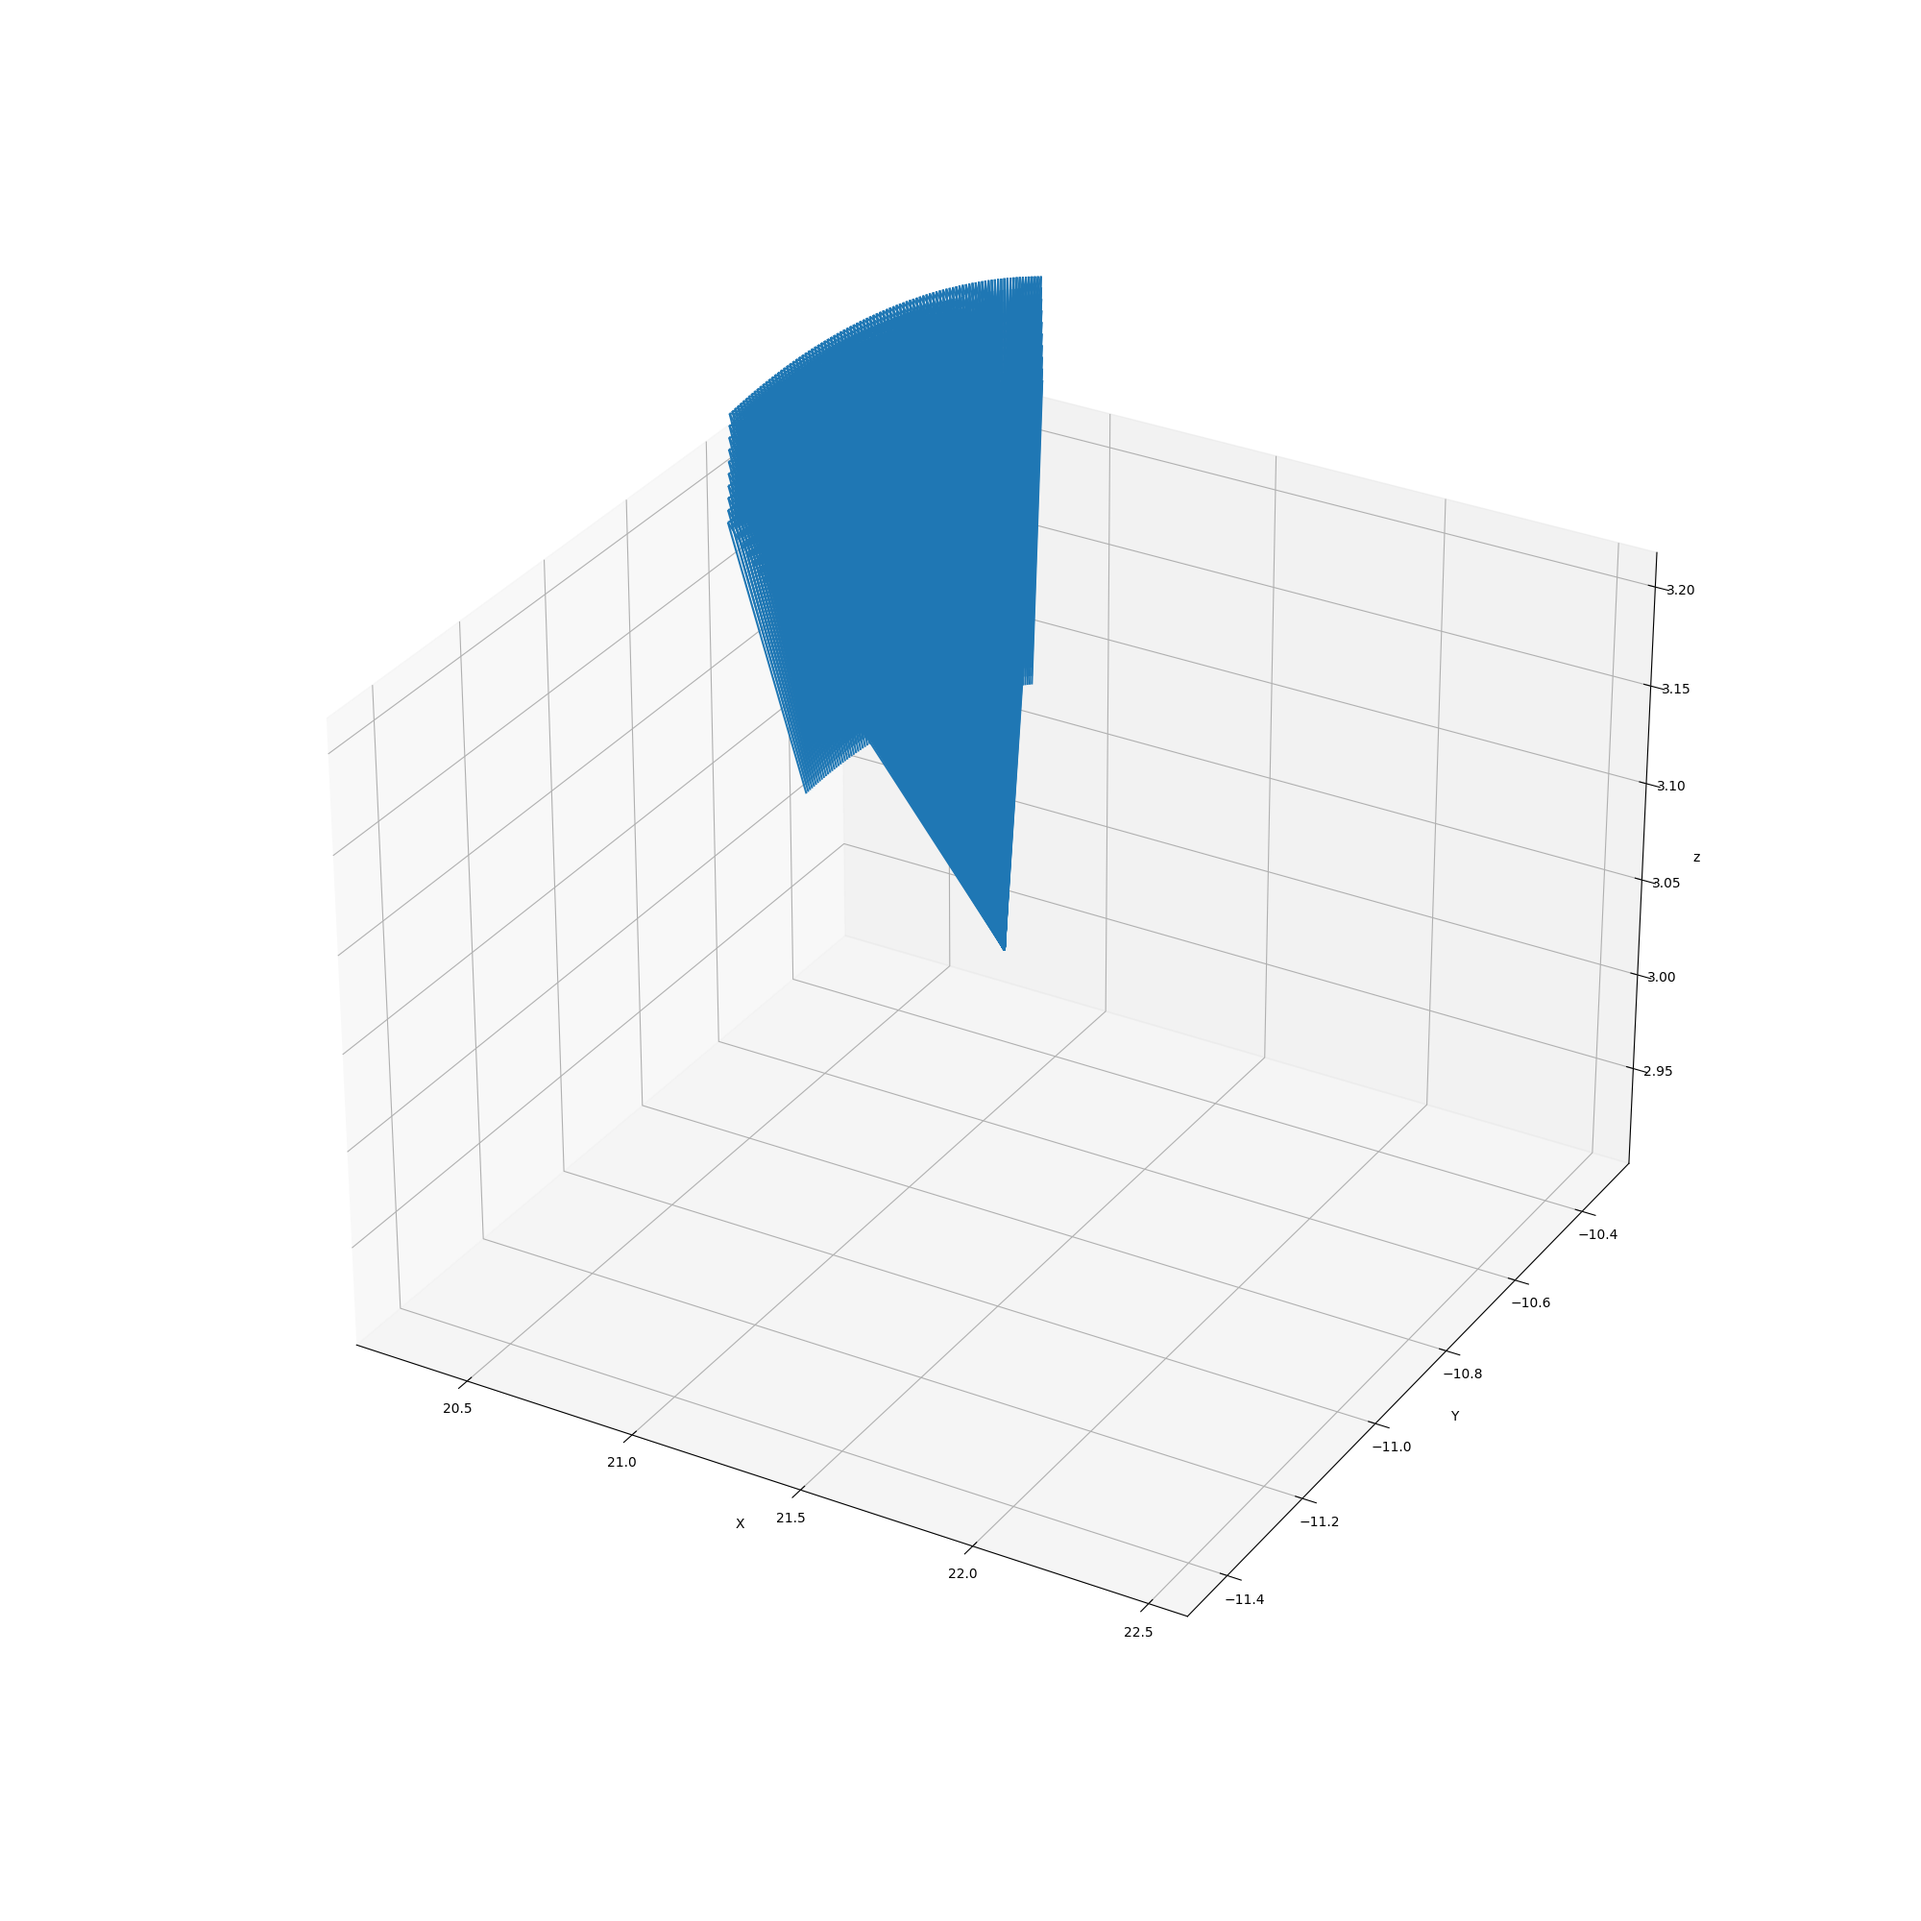
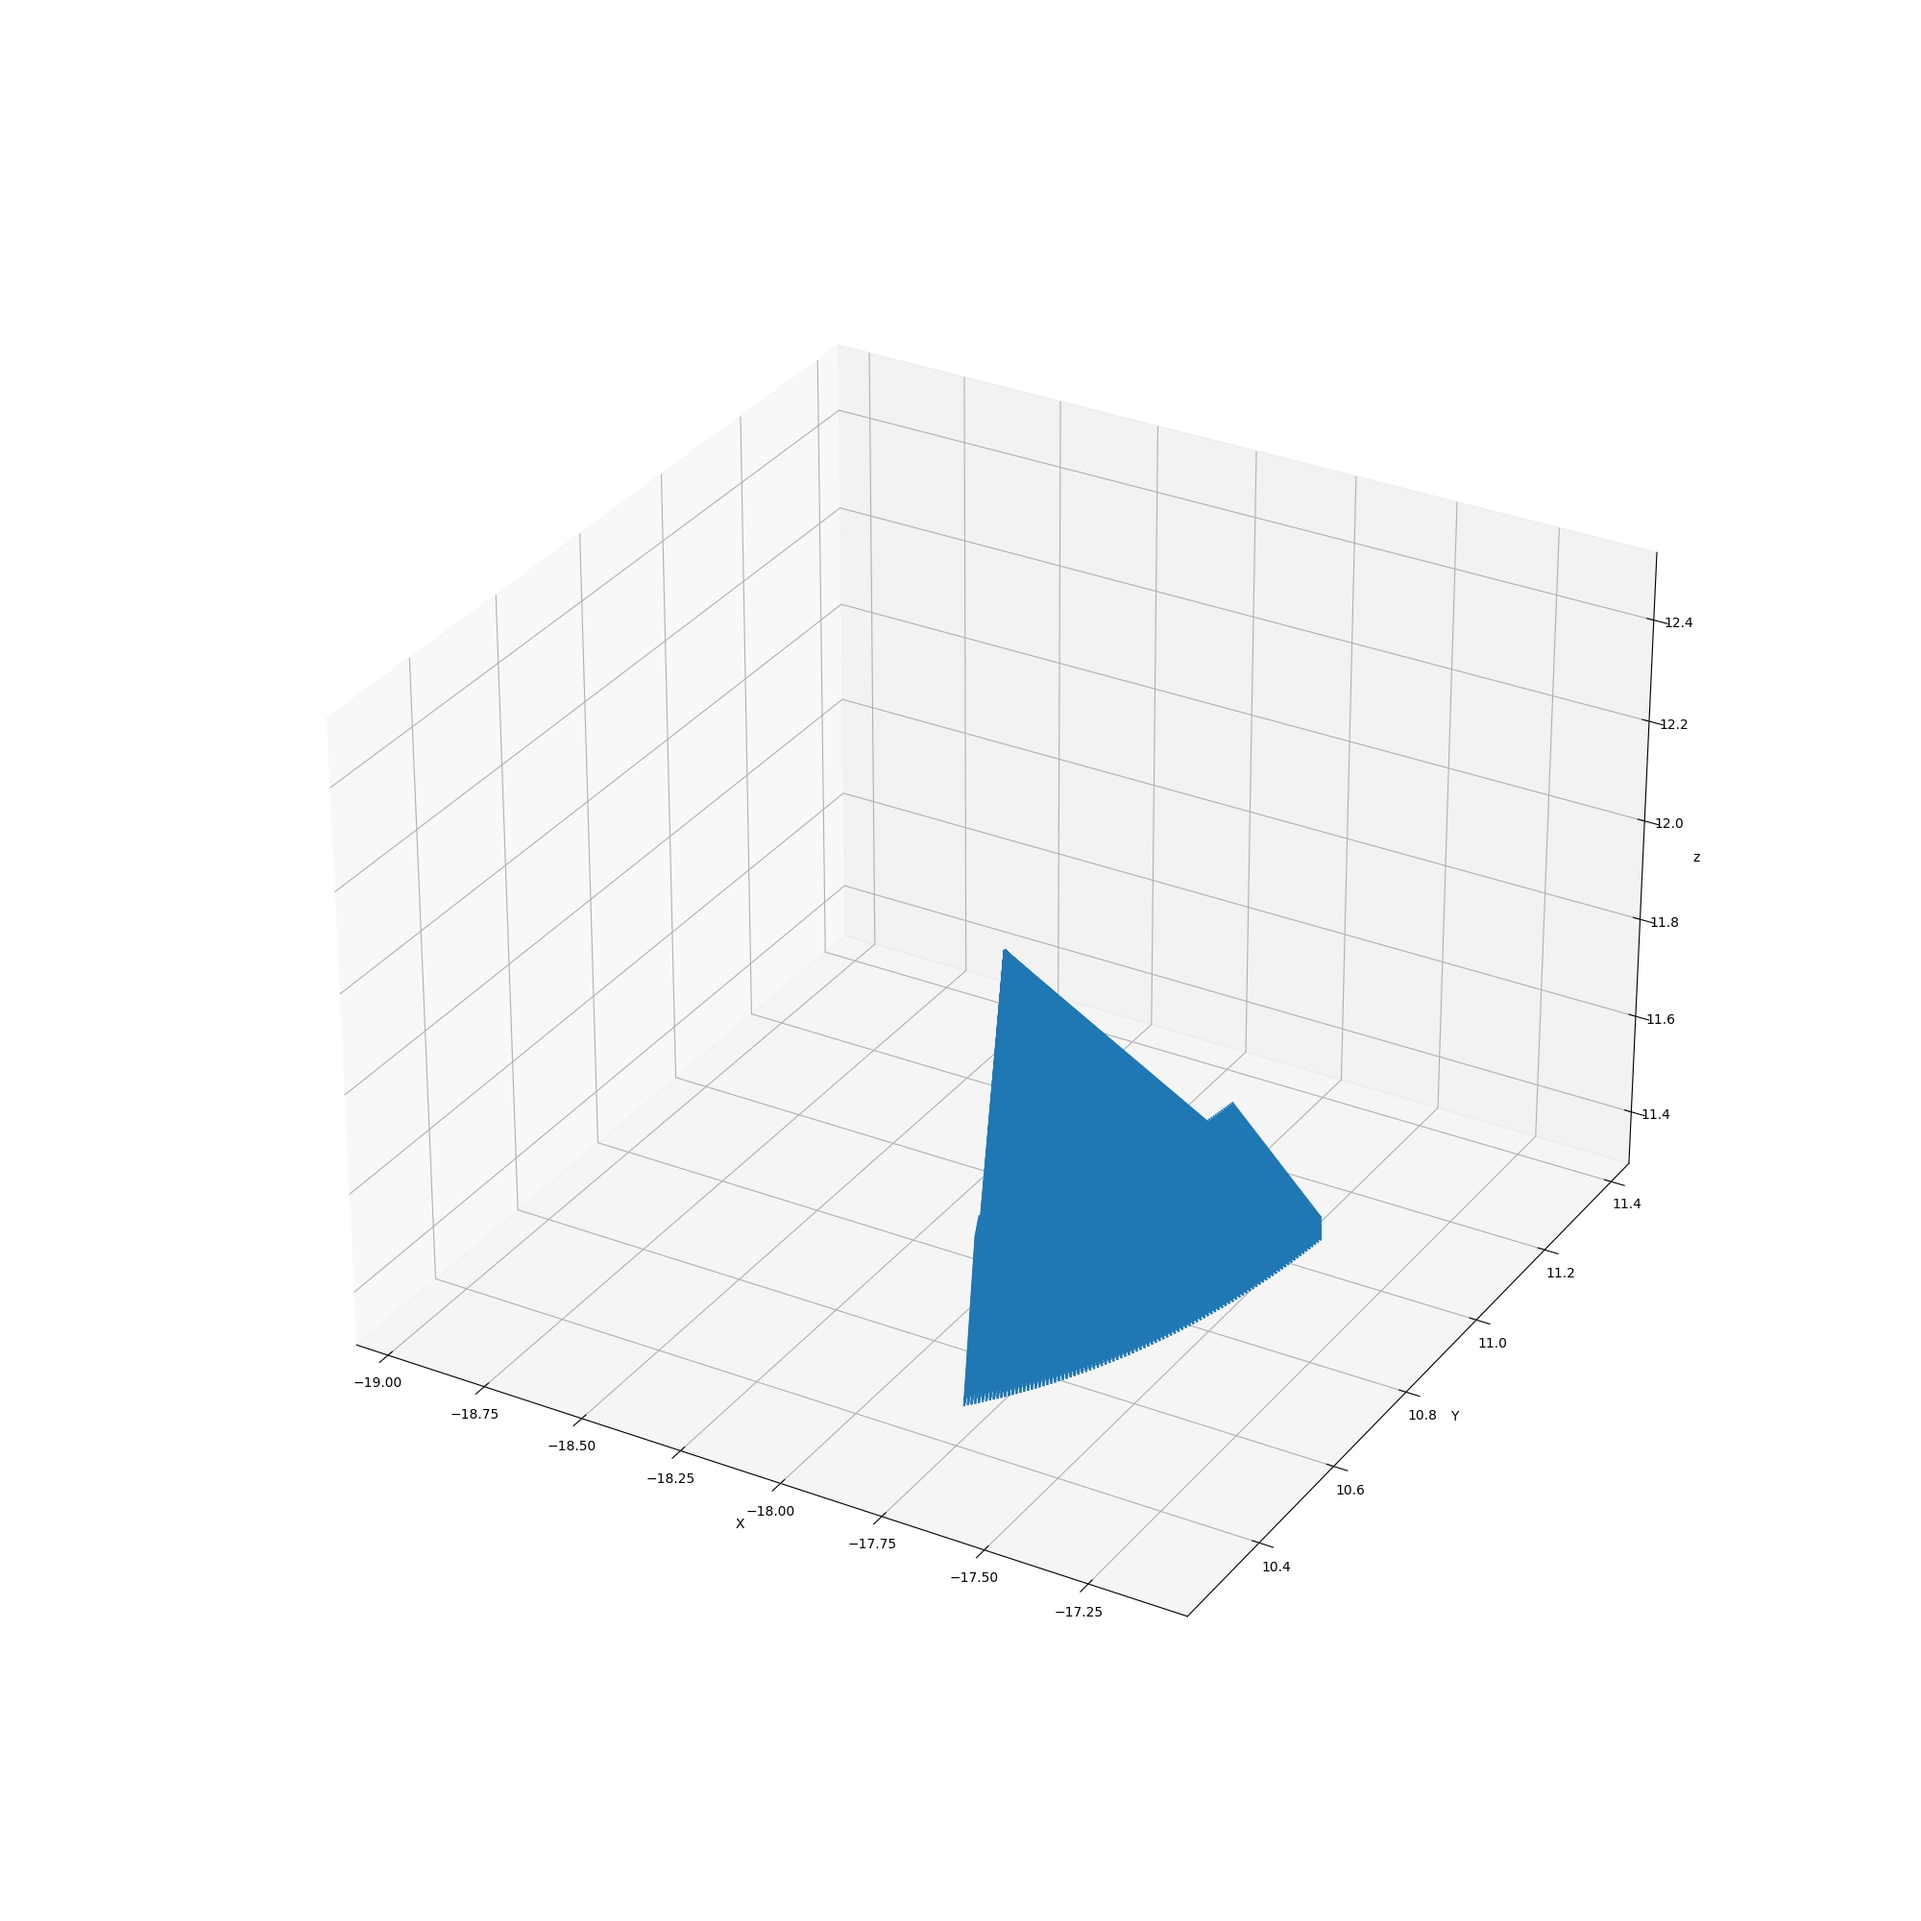
Implemetn and visualize positional encoding

Changed region(s): [[0.372, 0.124, 0.713, 0.744]]

diff --git a/nerf_app/tools/visualize_data.py b/nerf_app/tools/visualize_data.py
@@ -3,9 +3,11 @@ from pathlib import Path
 import matplotlib.pyplot as plt
 import torch
 from mpl_toolkits.mplot3d import axes3d
+import seaborn as sns
 
 from nerf_app.dataset.lego_dataset import *
 from nerf_app.utils.calculate_rays import *
+from nerf_app.models.PositionalEncoder import PositionalEncoder
 
 device = torch.device("cuda" if torch.cuda.is_available() else "cpu")
 
@@ -69,7 +71,7 @@ def visualize_calucated_rays():
     img_h, img_w = val_ds["images"].shape[1:3]
     f_l = val_ds["focal"]
     poses = val_ds["poses"]
-    r_o, r_d = calculate_rays(img_h, img_w, f_l, poses[0])
+    r_o, r_d = calculate_rays(img_h, img_w, f_l, poses[1])
     print(f"Ray Origin shape:{r_o.shape}")
     print(f"Ray Direc shape:{r_d.shape}")
     # Take origin
@@ -99,6 +101,26 @@ def visualize_calucated_rays():
     plt.savefig("../../output/images/visualize_calcul_rays.png")
 
 
+def visualize_positional_encoder_test():
+
+    encoder = PositionalEncoder(3, 5)
+    input_tensorf = torch.rand((10000, 3))
+    print(f"input_tensorf: {input_tensorf.shape}")
+    plt.figure()
+    sns.heatmap(input_tensorf, cmap='GnBu')
+    plt.savefig('../../output/images/input_tensorf_positiona_encoding.png')
+
+    encoder_rez = encoder(input_tensorf)
+
+    sns.heatmap(encoder_rez, cmap='GnBu')
+    plt.savefig('../../output/images/encoded_positiona_encoding.png')
+
+    print("Encoded Points")
+    print(encoder_rez.shape)
+    print(torch.min(encoder_rez), torch.max(encoder_rez), torch.mean(encoder_rez))
+    print("-" * 80)
+
 if __name__ == "__main__":
     # visualize_cameras()
-    visualize_calucated_rays()
+    # visualize_calucated_rays()
+    visualize_positional_encoder_test()

diff --git a/nerf_app/models/PositionalEncoder.py b/nerf_app/models/PositionalEncoder.py
@@ -1,0 +1,42 @@
+import torch
+import torch.nn as nn
+
+
+class PositionalEncoder(nn.Module):
+    """
+    Positional encoding using sin-cosine to map input poinst to higher dimensional space
+    """
+
+    def __init__(self, dim_input: int, n_freqs: int, log_space: bool = False):
+        """
+        :param dim_input:
+        :param n_freqs:
+        :param log_space:
+        """
+        super().__init__()
+        self.dim_input = dim_input  # Input dimension vec
+        self.n_freqs = n_freqs  # Number of encoded frequencies
+        self.log_space = log_space  # use log scale or linear
+
+        self.dim_output = dim_input * (1 + 2 * self.n_freqs)  # Output dimenssion
+        self.embed_fun = [lambda x: x]
+
+        # Define frequencies in either linear or log scale
+        # From paper
+        if self.log_space:
+            self.freq_bands = 2.0 ** torch.linspace(0.0, self.n_freqs - 1, self.n_freqs)
+        else:
+            self.freq_bands = torch.linspace(
+                2.0**0.0, 2.0 ** (self.n_freqs - 1), self.n_freqs
+            )
+
+        # applay sin and cos
+        self._applay_freq()
+
+    def _applay_freq(self):
+        for f in self.freq_bands:
+            self.embed_fun.append(lambda x, freq=f: torch.sin(x * f))
+            self.embed_fun.append(lambda x, freq=f: torch.cos(x * f))
+
+    def forward(self, x: torch.Tensor) -> torch.Tensor:
+        return torch.concat([fn(x) for fn in self.embed_fun], dim=-1)

diff --git a/nerf_app/main.py b/nerf_app/main.py
@@ -1,20 +1,4 @@
 from pathlib import Path
 
-import torch
-
-from nerf_app.dataset.lego_dataset import *
-from nerf_app.utils.calculate_rays import *
-
-device = torch.device("cuda" if torch.cuda.is_available() else "cpu")
-
 if __name__ == "__main__":
-    root_dir = Path("D:/ML_AI_DL_Projects/projects_repo/nerf")
-    prep_ds = PrepareData(device=device, root_dir=root_dir)
-    train_ds, val_ds = prep_ds.get_data()
-
-    img_h, img_w = val_ds["images"].shape[1:3]
-    f_l = val_ds["focal"]
-    poses = val_ds["poses"]
-    r_o, r_d = calculate_rays(img_h, img_w, f_l, poses[0])
-
-    assert r_o.shape == r_d.shape
+    pass

diff --git a/nerf_app/utils/calculate_rays.py b/nerf_app/utils/calculate_rays.py
@@ -12,6 +12,10 @@ def calculate_rays(
 ) -> Tuple[torch.Tensor, torch.Tensor]:
     """
     Find origin and direction of rays through every pixel and camera origin.
+    With this camera pose, we can now find the projection lines along each pixel of our image.
+    Each line is defined by its origin point (x,y,z) and its direction (in this case a 3D vector).
+    While the origin is the same for every pixel, the direction is slightly different.
+    These lines are slightly deflected off center such that none of these lines are parallel.
 
     :param height: image height
     :param width: image width

diff --git a/tests/test_positional_encoder.py b/tests/test_positional_encoder.py
@@ -1,0 +1,21 @@
+import torch
+
+from nerf_app.models.PositionalEncoder import PositionalEncoder
+
+
+def test_positional_encoder():
+    """
+    Test Positional Encoder
+    """
+
+    encoder = PositionalEncoder(3, 5)
+    input_tensorf = torch.rand((10000, 3))
+    print(f"input_tensorf: {input_tensorf.shape}")
+
+    encoder_rez = encoder(input_tensorf)
+
+    print("Encoded Points")
+    print(encoder_rez.shape)
+    assert encoder_rez.shape[1] == input_tensorf.shape[1]* (1 + 2*5)
+    print(torch.min(encoder_rez), torch.max(encoder_rez), torch.mean(encoder_rez))
+    print("-" * 80)

diff --git a/README.md b/README.md
@@ -18,10 +18,34 @@ The NeRF (Neural Radiance Fields) is a method that achieves state-of-the-art res
 
 # Table of Contents
 [Theory Explanation](#TE)
+   - [What is a NeRF](#NeRF)
    - [Origins and Directions](#OaD)
-   - [Multi-head Attention](#MHA)
-   - [Image classification](#CLS)
+   - [Positional Encoder](#PE)
+   - [Radiance Field Function-NeRF](#RFF)
+   - [Differentiable Volume Renderer](#DVR)
+   - [Stratified Sampling](#SS)
+   - [Hierarchical Volume Sampling](#HVS)
 [Usage](#Usage)
+
+## What is a NeRF <a name="NeRF"></a>
+A neural radiance field (NeRF) is a neural network that can reconstruct complex three-dimensional scenes from a partial set of two-dimensional images. 
+Three-dimensional images are required in various simulations, gaming, media, and Internet of Things (IoT) applications to make digital interactions more 
+realistic and accurate. The NeRF learns the scene geometry, objects, and angles of a particular scene. Then it renders photorealistic 3D views from novel viewpoints, automatically generating synthetic data to fill in gaps.
+
+### What are the use cases of neural radiance fields?
+NeRFs can render complex scenes and generate images for various use cases.
+
+#### Computer graphics and animation
+In computer graphics, you can use NeRFs to create realistic visual effects, simulations, and scenes. NeRFs capture, render, and project lifelike environments, characters, and other imagery. NeRFs are commonly used to improve video-game graphics and VX film animation.
+
+#### Medical imaging
+NeRFs facilitate the creation of comprehensive anatomical structures from 2D scans such as MRIs. Their technology can reconstruct realistic representations of body tissue and organs, giving doctors and medical technicians useful visual context. 
+
+#### Virtual reality
+NeRFs are a vital technology in virtual reality and augmented reality simulations. Because they can accurately model 3D scenes, they facilitate creating and exploring realistic virtual environments. Depending on your viewing direction, the NeRF can display new visual information and even render virtual objects in a real space.
+
+#### Satellite imagery and planning
+Satellite imagery provides a range of images that NeRFs can use to produce comprehensive models of the earth’s surface. It is useful for reality capture (RC) use cases that require digitizing real-world environments—you can transform spatial location data into highly detailed 3D models. For example, the reconstruction of aerial imagery into landscape renders is commonly used in urban planning because it gives a useful reference for the real-world layout of an area. 
 
 ## Origins and Directions <a name="OaD"></a>
 
@@ -40,3 +64,16 @@ With this camera pose, we can now find the projection lines along each pixel of 
 <p align="center">
   <img width="500" height="250" src="./output/images/Pin-hole-camera-model-terminology-The-optical-center-pinhole-is-placed-at-the-origin.png" />
 </p>
+
+## Positional Encoder <a name="PE"></a>
+Much like the transformer model introduced in 2017[11], 
+the NeRF also benefits from a positional encoder as its input, albeit for a different reason. 
+In short, it maps its continuous input to a higher-dimensional space using high-frequency functions to aid 
+the model in learning high frequency variations in the data, which leads to sharper models. 
+This approach circumvents the bias that neural networks have towards lower frequency functions, 
+allowing NeRF to represent sharper details.
+
+## Radiance Field Function-NeRF <a name="RFF"></a>
+## Differentiable Volume Renderer <a name="DVR"></a>
+## Stratified Sampling <a name="SS"></a>
+## Hierarchical Volume Sampling <a name="HVS"></a>
